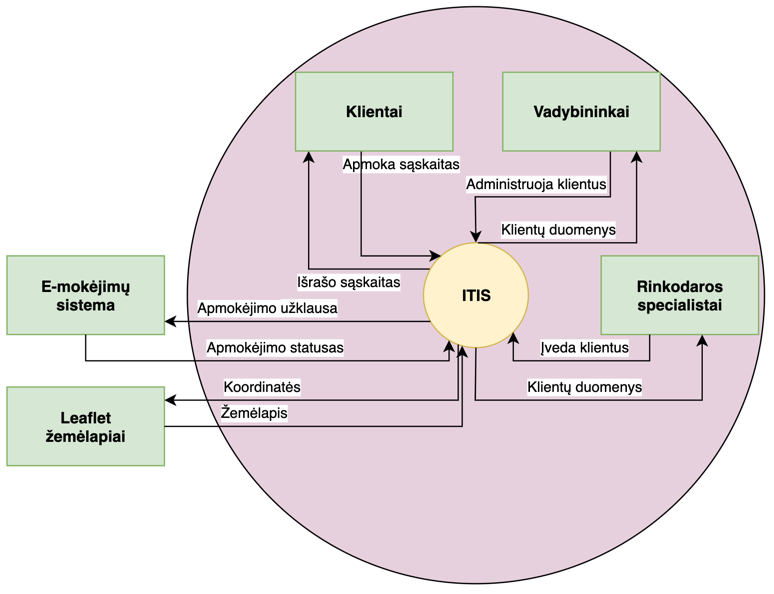
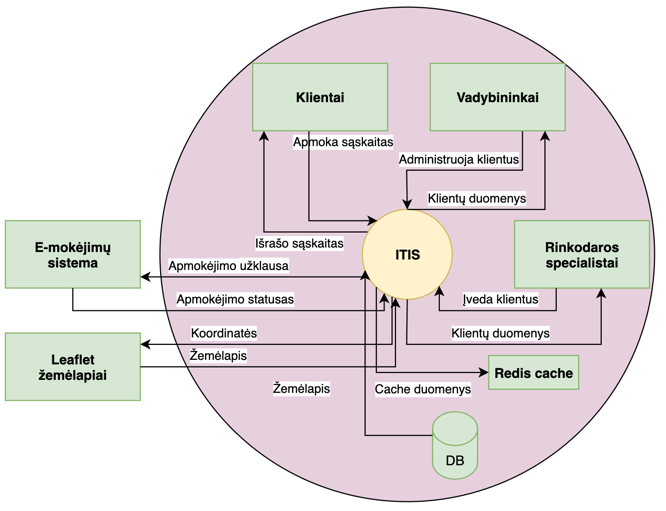
lab2 README

diff --git a/docs/Programų sistemų architektūra ir projektavimas_lab2/README.md b/docs/Programų sistemų architektūra ir projektavimas_lab2/README.md
@@ -32,7 +32,13 @@ Points: 1
 Bonus Points: Use all 4 perspectives 0.25
 
 #### Į ką atkreipia dėmesį
-- Security perspective. Vulnerability points schema
+- Security perspective:
+  - Vulnerability points diagram
+  - Attack tree
+- Prieinamumas ir atsparumas (angl. Availability and Resilience):
+  - Platform availability
+  - Availability Schedule
+- labai svarbu ką perspektyvose padarei dėl ko reikėjo keisti view'us.
 
 ---
 <h1 style="text-align:center;">Architektūrinis aprašymas <i>(angl. Architectural description)</i></h1>
@@ -135,7 +141,7 @@ Interneto tiekėjo informacinė sistema (ITIS) skirta automatizuoti klientų duo
 |----------|-------------------------------------------------|---------------------------------------------------------------------------------------------------------------------------------------|
 | **NF1**  | **Našumas _(angl. Performance)_**               | Sistema turi apdoroti bent 10000 užklausų per 1 sekundę esant apkrovai.                                                               |
 | **NF2**  | **Prieinamumas _(angl. Availability)_**         | Sistema turi būti pasiekiama bent 99,99 % laiko per mėnesį.                                                                           |
-| **NF3**  | **Atsparumas _(angl. Resilience)_**             | Gedimo atveju sistema turi būti atstatoma ne vėliau kaip per 2 valandas (MTTR ≤ 2 h).                                                 |
+| **NF3**  | **Atsparumas _(angl. Resilience)_**             | Gedimo atveju sistema turi būti atstatoma ne vėliau kaip per 90 minučių (MTTR ≤ 90 min.).                                             |
 | **NF4**  | **Saugumas _(angl. Security)_**                 | Visi duomenys perduodami HTTPS protokolu; slaptažodžiai saugomi su bcrypt / Argon2; naudojami CSRF token'ai.                          |
 | **NF5**  | **Duomenų apsauga _(angl. Privacy)_**           | Sistema turi atitikti BDAR _(angl. GDPR)_ reikalavimus — klientas turi teisę peržiūrėti, ištaisyti ir prašyti ištrinti savo duomenis. |
 | **NF6**  | **Pritaikomumas _(angl. Usability)_**           | Kliento savitarna turi būti aiški ir pasiekiama per 3 paspaudimus iki pagrindinės informacijos (sąskaitos ar paslaugos).              |
@@ -1098,8 +1104,8 @@ ITIS integracijos:
 | L4              | Visa sistema neveikia | 30 min.  |
 
 #### SLA
-- Prieinamumas _(angl. Availability)_: 99.99 %
-- MTTR: ≤ 1 h.
+- Prieinamumas _(angl. Availability)_: 99.91 %
+- MTTR: ≤ 90 min.
 - Response time: ≤ 30 sek. naudotojo veiksmams
 
 ### 4.7.11. Santrauka
@@ -1326,16 +1332,21 @@ Skyrius susideda iš visų perspektyvų:
 
 | Incidentas                                     | Poveikis                                                     | Veiksmai atstatymui (Remedial Action)                           | Atstatymo laikas     |
 |------------------------------------------------|--------------------------------------------------------------|-----------------------------------------------------------------|----------------------|
-| **Web serverio / konteinerio gedimas**         | Laikinas nepasiekiamumas; vartotojai negali naudotis sistema | Kubernetes automatiškai paleidžia naują pod                     | **2 val.**           |
-| **Aplikacijos klaida**                         | 4xx, 5xx klaidos                                             | Klaidos analizė                                                 | **10 min - 2 val.**  |
-| **MariaDB išsijungė**                          | Laikinas nepasiekiamumas                                     | Įjungimas                                                       | **2 val.**           |
+| **Web serverio / konteinerio gedimas**         | Laikinas nepasiekiamumas; vartotojai negali naudotis sistema | Kubernetes automatiškai paleidžia naują pod                     | **15 min.**          |
+| **Aplikacijos klaida**                         | 4xx, 5xx klaidos                                             | Klaidos analizė                                                 | **10 min - 1 val.**  |
+| **MariaDB išsijungė**                          | Laikinas nepasiekiamumas                                     | Rankinis arba automatinis įjungimas                             | **15 min.**          |
 | **Disko gedimas konteineryje/VM**              | Galimas duomenų praradimas; sistemos sustojimas              | Duomenų atkūrimas iš backup ar replikos                         | **1 d.**             |
-| **Paysera callback neprieinamas**              | Mokėjimai nepatvirtinami, sąskaitos lieka “neapmokėtos”      | Paysera retry užlausą; administratoriaus rankinis patvirtinimas | **4 val.**           |
-| **SMTP serverio gedimas**                      | Laiškai neišsiunčiami klientams ir vadybininkams             | Klaidos analizė                                                 | **1 d.**             |
-| **Cron (invoice generator) gedimas**           | Nesugeneruojamos sąskaitos                                   | Pakartotinis cron paleidimas; log'ų analizė                     | **12 val.**          |
-| **Failų saugyklos gedimas (log'ai / PDF)**     | Negalima generuoti PDF; logų praradimas                      | Klaidos analizė                                                 | **2 val.**           |
+| **Paysera callback neprieinamas**              | Mokėjimai nepatvirtinami, sąskaitos lieka “neapmokėtos”      | Paysera retry užlausą; administratoriaus rankinis patvirtinimas | **2 val.**           |
+| **SMTP serverio gedimas**                      | Laiškai neišsiunčiami klientams ir vadybininkams             | Klaidos analizė                                                 | **3 val.**           |
+| **Cron (invoice generator) gedimas**           | Nesugeneruojamos sąskaitos                                   | Pakartotinis cron paleidimas; log'ų analizė                     | **5 min.**           |
+| **Failų saugyklos gedimas (log'ai / PDF)**     | Negalima generuoti PDF; logų praradimas                      | Klaidos analizė                                                 | **1 val.**           |
 | **DDoS ataka**                                 | Stiprus sulėtėjimas; sistema gali tapti nepasiekiama         | WAF, Rate limiting, IP blokavimas                               | **30 min. - 2 val.** |
 | **SSL / domeno sertifikato galiojimo pabaiga** | Naudotojai negali jungtis per HTTPS                          | Sertifikato atnaujinimas (Let's Encrypt auto-renew)             | **30 min. - 2 val.** |
+
+### Sistemos prieinamumas _(angl. Platform availability)_
+Pagal formulę `MTBF = bendras veikimo laikas / gedimų skaičius` sistema veiks 100% ir gediminų skaičius prognozuojamas 1 per savaitę, tad `MTBF=168 val.`.  
+Pagal formulę `sistemos pasiekiamumas = MTBF / (MTBF + MTTR)` sistemos pasiekiamumas siekia **99.91%**.
+Gedimo atveju sistema turi būti atstatoma ne vėliau kaip per ~1.5 val. (MTTR ≤90 min.).
 
 ### Sistemos prieinamumo grafikas
 ![perspective_availability_availability_schedule.png](perspective_availability_availability_schedule.png)  
@@ -2238,7 +2249,7 @@ UC_301 --> UC_102 : "Kurti sąskaitų įrašus"
 ## Priedas 2. Informacinio vaizdo sąskaitos gyvavimo ciklo diagramos kodas
 ```plantuml
 @startuml
-title Sąskaitos gyvavimo ciklas (Invoice State Diagram)
+title Sąskaitos gyvavimo ciklas (angl. Invoice State Diagram)
 
 /' Pradinė būsena '/
 [*] --> Sukurta
@@ -2277,7 +2288,7 @@ state Sukurtas {
 ## Priedas 4. Sąskaitos apmokėjimo lygiagretumo sekos diagramos _(angl. Invoice Concurrency Sequence diagram)_ - mokėjimo scenarijaus kodas
 ```plantuml
 @startuml
-title Sąskaitos apmokėjimo lygiagretumo sekų diagrama – mokėjimo scenarijus
+title Sąskaitos apmokėjimo lygiagretumo sekų diagrama – mokėjimo scenarijus (angl. Invoice Concurrency Sequence diagram)
 
 actor       Klientas
 actor       Cron
@@ -2326,7 +2337,7 @@ Web      --> Klientas : Rodo "Apmokėta"
 ## Priedas 5. Lygiagretumo modelis _(angl. UML Concurrency Model)_
 ```plantuml
 @startuml
-title ITIS UML Concurrency Model (Processes, Threads, IPC)
+title Lygiagretumo modelis (angl. Concurrency Model (Processes, Threads, IPC))
 
 ' ==== OS PROCESSES ====
 process "Apache / PHP-FPM\n(Web Process)" as WebProc {
@@ -2366,7 +2377,7 @@ WebThread      --> MQ          : "Queue support question notifications"
 ## Priedas 6. Komponentų modelis _(angl. UML Component model)_
 ```plantuml
 @startuml
-title UML Component Diagram (Module Structure Model)
+title UML Komponentų modelis (angl. UML Component model)
 left to right direction
 
 ' ====== Components (tables) ======
@@ -2440,7 +2451,7 @@ users_objects_services_promotions <-- services_promotions
 ## Priedas 7. Kubernetes diegimo architektūra _(angl. Kubernetes Deployment Architecture)_
 ```plantuml
 @startuml
-title Kubernetes Deployment Architecture
+title Kubernetes diegimo architektūra (angl. Kubernetes Deployment Architecture)
 
 node "Client Browser" as Browser
 
@@ -2475,7 +2486,7 @@ Web1 --> SMTP
 ## Priedas 8. UML komponentų diagrama _(angl. UML Component Diagram)_
 ```plantuml
 @startuml
-title UML Component Diagram
+title UML komponentų diagrama (angl. UML Component Diagram)
 left to right direction
 
 ' ==== External Interfaces ====
@@ -2547,10 +2558,10 @@ Cron --> EmailService : email
 @enduml
 ```
 
-## Priedas 9. vykdymo platformos modelis _(angl. Runtime Platform Model)_
+## Priedas 9. Vykdymo platformos modelis _(angl. Runtime Platform Model)_
 ```plantuml
 @startuml
-title ITIS – Runtime Platform Model (Deployment Viewpoint)
+title Vykdymo platformos modelis (angl. Runtime Platform Model)
 
 skinparam shadowing false
 skinparam rectangleStyle rounded
@@ -2680,7 +2691,7 @@ WebApp --> MapTiles : HTTPS\nTile Requests
 ## Priedas 10. Atakos medis _(angl. Attack tree)_
 ```plantuml
 @startmindmap
-title Attack Tree
+title Atakos medis (angl. Attack Tree)
 
 <style>
 mindmapDiagram {
@@ -2749,7 +2760,7 @@ mindmapDiagram {
 ## Priedas 11. Grafinis problemų atvaizdavimas _(angl. Graphical representation problem)_
 ```plantuml
 @startuml
-title Graphical representation problem
+title Grafinis problemų atvaizdavimas (angl. Graphical representation problem)
 
 skinparam rectangle {
   BackgroundColor White
